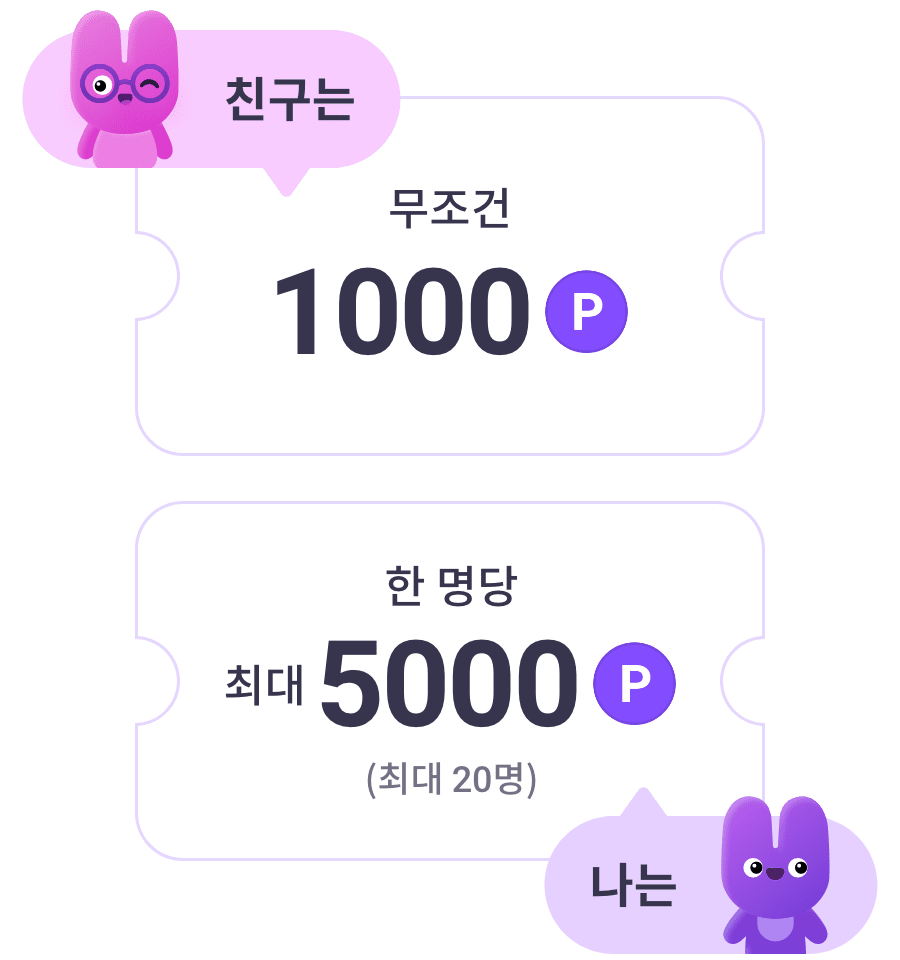
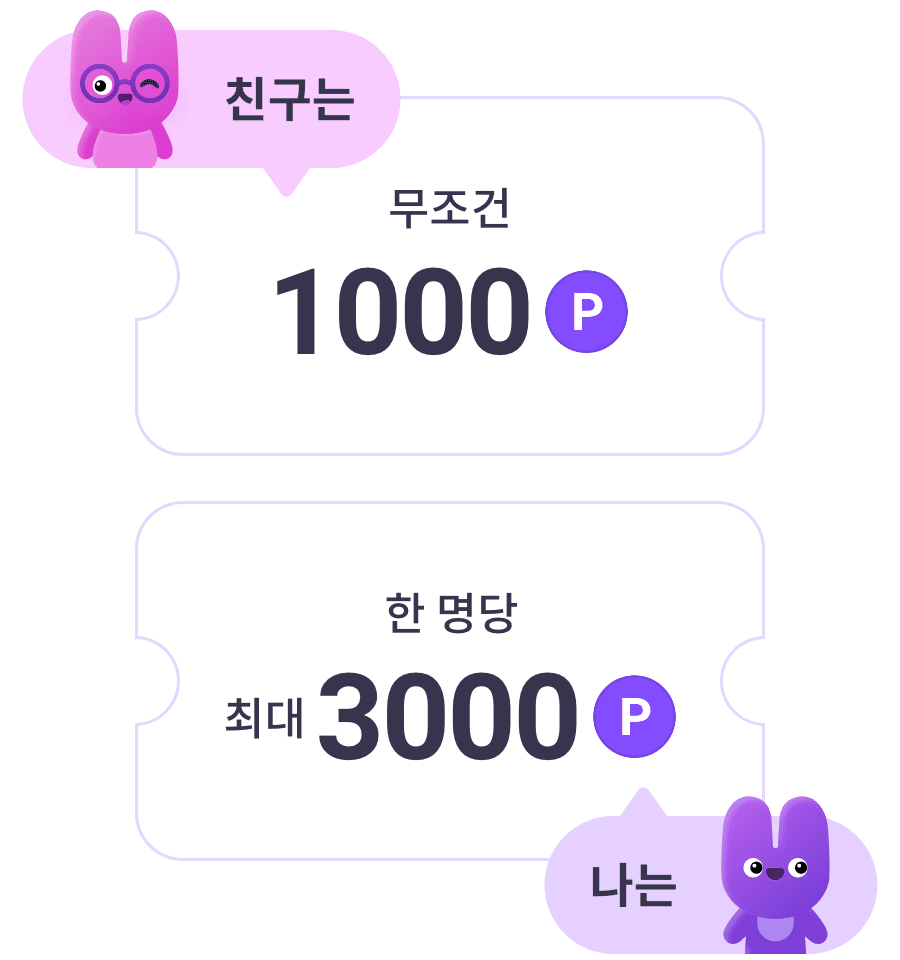
fix: 포인트 변경 및 문구 삭제

Changed region(s): [[0.2489, 0.5938, 0.7467, 0.8438]]

diff --git a/src/html/points/포인트 적립_1.친구 초대.html b/src/html/points/포인트 적립_1.친구 초대.html
@@ -30,7 +30,6 @@
 							<p><span>행운 복권</span> 으로 <span>최대 50,000P</span> 기회까지!</p>
 						</div>
 						<img src="../../img/points/img-invitation-point-info@3x.png" alt="">
-						<p class="noti">✽ 6명 초대부터는 <span class="f-point">5000P</span>씩 받아요 (최대20명)</p>
 					</div>
 				</div>
 				<div class="point-invite-box code">
@@ -101,15 +100,14 @@
 					<p class="title">적립 포인트 정책</p>
 					<ul class="dash-list">
 						<li>초대 현황 및 누적 초대 포인트는 매월 1일 초기화됩니다.</li>	
-						<li>친구 초대 포인트는 매월 최대 20명까지 받을 수 있어요.</li>
+						<li>친구 초대 포인트는 매월 최대 5명까지 받을 수 있어요.</li>
 						<li>누적 초대 인원에 따라 적립되는 포인트 및 혜택은 다음과 같습니다.</li>
 						<ul class="dash-list">
 							<li>1명 : 1000포인트, 행운 복권 획득 기회</li>
-							<li>2명 : 2000포인트</li>
-							<li>3명 : 3000포인트, 행운 복권 획득 기회</li>
-							<li>4명 : 4000포인트</li>
-							<li>5명 : 5000포인트, 행운 복권 획득 기회</li>
-							<li>6명 이상 : 5000포인트</li>
+							<li>2명 : 1500포인트</li>
+							<li>3명 : 2000포인트, 행운 복권 획득 기회</li>
+							<li>4명 : 2500포인트</li>
+							<li>5명 : 3000포인트, 행운 복권 획득 기회</li>
 						</ul>
 						<li>초대코드를 입력한 신규 회원 : 1000포인트 획득</li>
 						<li>일정 친구 초대 수를 채우면 행운복권이 표시되고, 표시된 복권 아이콘을 눌러야 행운복권이 지급 완료됩니다.</li>

diff --git a/src/html/points/포인트 적립_1.친구 초대_토스트 팝업.html b/src/html/points/포인트 적립_1.친구 초대_토스트 팝업.html
@@ -30,7 +30,6 @@
 							<p><span>행운 복권</span> 으로 <span>최대 50,000P</span> 기회까지!</p>
 						</div>
 						<img src="../../img/points/img-invitation-point-info@3x.png" alt="">
-						<p class="noti">✽ 6명 초대부터는 <span class="f-point">5000P</span>씩 받아요 (최대20명)</p>
 					</div>
 				</div>
 				<div class="point-invite-box code">
@@ -100,15 +99,14 @@
 					<p class="title">적립 포인트 정책</p>
 					<ul class="dash-list">
 						<li>초대 현황 및 누적 초대 포인트는 매월 1일 초기화됩니다.</li>	
-						<li>친구 초대 포인트는 매월 최대 20명까지 받을 수 있어요.</li>
+						<li>친구 초대 포인트는 매월 최대 5명까지 받을 수 있어요.</li>
 						<li>누적 초대 인원에 따라 적립되는 포인트 및 혜택은 다음과 같습니다.</li>
 						<ul class="dash-list">
 							<li>1명 : 1000포인트, 행운 복권 획득 기회</li>
-							<li>2명 : 2000포인트</li>
-							<li>3명 : 3000포인트, 행운 복권 획득 기회</li>
-							<li>4명 : 4000포인트</li>
-							<li>5명 : 5000포인트, 행운 복권 획득 기회</li>
-							<li>6명 이상 : 5000포인트</li>
+							<li>2명 : 1500포인트</li>
+							<li>3명 : 2000포인트, 행운 복권 획득 기회</li>
+							<li>4명 : 2500포인트</li>
+							<li>5명 : 3000포인트, 행운 복권 획득 기회</li>
 						</ul>
 						<li>초대코드를 입력한 신규 회원 : 1000포인트 획득</li>
 						<li>일정 친구 초대 수를 채우면 행운복권이 표시되고, 표시된 복권 아이콘을 눌러야 행운복권이 지급 완료됩니다.</li>

diff --git a/src/html/points/포인트 적립_1.친구 초대_플로팅 버튼.html b/src/html/points/포인트 적립_1.친구 초대_플로팅 버튼.html
@@ -30,7 +30,6 @@
 							<p><span>행운 복권</span> 으로 <span>최대 50,000P</span> 기회까지!</p>
 						</div>
 						<img src="../../img/points/img-invitation-point-info@3x.png" alt="">
-						<p class="noti">✽ 6명 초대부터는 <span class="f-point">5000P</span>씩 받아요 (최대20명)</p>
 					</div>
 				</div>
 				<div class="point-invite-box code">
@@ -100,15 +99,14 @@
 					<p class="title">적립 포인트 정책</p>
 					<ul class="dash-list">
 						<li>초대 현황 및 누적 초대 포인트는 매월 1일 초기화됩니다.</li>	
-						<li>친구 초대 포인트는 매월 최대 20명까지 받을 수 있어요.</li>
+						<li>친구 초대 포인트는 매월 최대 5명까지 받을 수 있어요.</li>
 						<li>누적 초대 인원에 따라 적립되는 포인트 및 혜택은 다음과 같습니다.</li>
 						<ul class="dash-list">
 							<li>1명 : 1000포인트, 행운 복권 획득 기회</li>
-							<li>2명 : 2000포인트</li>
-							<li>3명 : 3000포인트, 행운 복권 획득 기회</li>
-							<li>4명 : 4000포인트</li>
-							<li>5명 : 5000포인트, 행운 복권 획득 기회</li>
-							<li>6명 이상 : 5000포인트</li>
+							<li>2명 : 1500포인트</li>
+							<li>3명 : 2000포인트, 행운 복권 획득 기회</li>
+							<li>4명 : 2500포인트</li>
+							<li>5명 : 3000포인트, 행운 복권 획득 기회</li>
 						</ul>
 						<li>초대코드를 입력한 신규 회원 : 1000포인트 획득</li>
 						<li>일정 친구 초대 수를 채우면 행운복권이 표시되고, 표시된 복권 아이콘을 눌러야 행운복권이 지급 완료됩니다.</li>

diff --git a/src/html/join/회원가입_4.초대코드_초대 코드 입력 전.html b/src/html/join/회원가입_4.초대코드_초대 코드 입력 전.html
@@ -28,11 +28,10 @@
                         </li>
                         <ul class="invite-people">
                             <li>1명 초대 시 : <em>1000포인트</em></li>
-                            <li>2명 초대 시 : <em>2000포인트</em></li>
-                            <li>3명 초대 시 : <em>3000포인트</em></li>
-                            <li>4명 초대 시 : <em>4000포인트</em></li>
-                            <li>5명 초대 시 : <em>5000포인트</em></li>
-                            <li>6명 이상 초대 시 : <em>5000포인트</em></li>
+                            <li>2명 초대 시 : <em>1500포인트</em></li>
+                            <li>3명 초대 시 : <em>2000포인트</em></li>
+                            <li>4명 초대 시 : <em>2500포인트</em></li>
+                            <li>5명 초대 시 : <em>3000포인트</em></li>
                         </ul>
                     </ul>
                 </div>

diff --git a/src/html/join/회원가입_4.초대코드_초대 코드 입력 후.html b/src/html/join/회원가입_4.초대코드_초대 코드 입력 후.html
@@ -30,11 +30,10 @@
                         </li>
                         <ul class="invite-people">
                             <li>1명 초대 시 : <em>1000포인트</em></li>
-                            <li>2명 초대 시 : <em>2000포인트</em></li>
-                            <li>3명 초대 시 : <em>3000포인트</em></li>
-                            <li>4명 초대 시 : <em>4000포인트</em></li>
-                            <li>5명 초대 시 : <em>5000포인트</em></li>
-                            <li>6명 이상 초대 시 : <em>5000포인트</em></li>
+                            <li>2명 초대 시 : <em>1500포인트</em></li>
+                            <li>3명 초대 시 : <em>2000포인트</em></li>
+                            <li>4명 초대 시 : <em>2500포인트</em></li>
+                            <li>5명 초대 시 : <em>3000포인트</em></li>
                         </ul>
                     </ul>
                 </div>

diff --git a/src/html/join/회원가입_4.초대코드_초대 코드 입력_키패드 노출.html b/src/html/join/회원가입_4.초대코드_초대 코드 입력_키패드 노출.html
@@ -28,11 +28,10 @@
                         </li>
                         <ul class="invite-people">
                             <li>1명 초대 시 : <em>1000포인트</em></li>
-                            <li>2명 초대 시 : <em>2000포인트</em></li>
-                            <li>3명 초대 시 : <em>3000포인트</em></li>
-                            <li>4명 초대 시 : <em>4000포인트</em></li>
-                            <li>5명 초대 시 : <em>5000포인트</em></li>
-                            <li>6명 이상 초대 시 : <em>5000포인트</em></li>
+                            <li>2명 초대 시 : <em>1500포인트</em></li>
+                            <li>3명 초대 시 : <em>2000포인트</em></li>
+                            <li>4명 초대 시 : <em>2500포인트</em></li>
+                            <li>5명 초대 시 : <em>3000포인트</em></li>
                         </ul>
                     </ul>
                 </div>

diff --git a/src/html/points/포인트 적립_3.팝업(6.예산 소진 시 팝업).html b/src/html/points/포인트 적립_3.팝업(6.예산 소진 시 팝업).html
@@ -1,0 +1,29 @@
+<!DOCTYPE HTML>
+<html lang="ko">
+@@include('../include/head.html')
+<body>
+<div class="wrap"></div>
+<div class="modal fade modal-inspection event-modal" id="inspectionPopup" tabindex="-1" aria-hidden="true" data-backdrop="static">
+	<div class="modal-dialog modal-dialog-centered">
+		<div class="modal-content pt-0">
+			<div class="modal-body py-5">
+				<div class="invite-txt">
+					<p>
+						운영사 사정으로 이번 달 <br>이벤트가 중단되었습니다.
+					</p>
+					<p style="margin-top: 15px;">
+						양해 부탁드리며, 빠른 시일 내에 <br>다시 찾아뵙겠습니다
+					</p>
+				</div>
+			</div>
+			<div class="modal-footer">
+				<a href="#" class="btn-footer single">확인</a>
+			</div>
+		</div>
+	</div>
+</div>
+<script>
+    $('#inspectionPopup').modal('show');   // modal show
+</script>
+</body>
+</html>

diff --git a/src/html/points/포인트 적립_5.팝업(3.초대 포인트 안내 툴팁).html b/src/html/points/포인트 적립_5.팝업(3.초대 포인트 안내 툴팁).html
@@ -13,7 +13,7 @@
                     <li>초대한 친구가 많을수록 친구 한 명당 받을 수 있는 포인트가 늘어나요</li>    
                     <li>행운 복권을 통해 받은 포인트는 포함되지 않아요</li>    
                     <li>표시되는 포인트는 매월 1일 초기화 돼요</li>    
-                    <li>친구 초대 포인트는 매월 최대 20명까지 받을 수 있어요</li>    
+                    <li>친구 초대 포인트는 매월 최대 5명까지 받을 수 있어요</li>    
                 </ul>
             </div>
         </div>

diff --git a/src/scss/style/modules/points.scss b/src/scss/style/modules/points.scss
@@ -128,7 +128,7 @@
             background-color: #eae6ff;
             .invite-code-box{
                 width: 100%;
-                padding: 20px;
+                padding: 15px 20px;
                 display: flex;
                 flex-wrap: wrap;
                 align-items: center;
